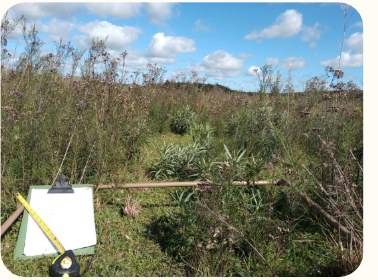
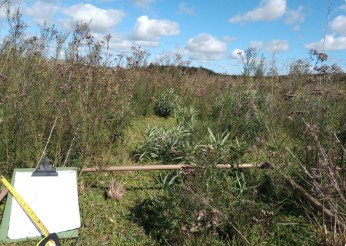
Fix review findings: honest Projetos framing, cleaner photo crops, accessible mobile nav, AA contrast

diff --git a/index.html b/index.html
@@ -35,7 +35,7 @@
   --cream: #fffbf5;
   --cream-2: #f4ece0;
   --text: #2a2420;
-  --text-dim: #7a6c60;
+  --text-dim: #665a4f;
   --border: rgba(115,2,44,0.16);
   --font-display: 'Cormorant Garamond', Georgia, serif;
   --font-body: 'Jost', 'Helvetica Neue', Arial, sans-serif;
@@ -138,14 +138,15 @@ nav.links {
 nav.links a { position: relative; padding: 4px 0; }
 nav.links a:hover { color: var(--wine); }
 
-/* mobile nav via checkbox hack */
-#nav-toggle { display: none; }
+/* mobile nav */
 .hamburger {
   display: none;
   flex-direction: column;
   gap: 5px;
   cursor: pointer;
   padding: 6px;
+  background: none;
+  border: none;
 }
 .hamburger span {
   width: 24px;
@@ -153,6 +154,7 @@ nav.links a:hover { color: var(--wine); }
   background: var(--wine);
   display: block;
 }
+.hamburger:focus-visible { outline: 2px solid var(--wine); outline-offset: 2px; }
 
 @media (max-width: 860px) {
   nav.links {
@@ -165,11 +167,12 @@ nav.links a:hover { color: var(--wine); }
     gap: 0;
     max-height: 0;
     overflow: hidden;
-    transition: max-height 0.25s ease;
+    visibility: hidden;
+    transition: max-height 0.25s ease, visibility 0s linear 0.25s;
     border-bottom: 1px solid var(--border);
   }
   nav.links a { padding: 14px 24px; border-top: 1px solid var(--border); }
-  #nav-toggle:checked ~ nav.links { max-height: 420px; }
+  nav.links.open { max-height: 420px; visibility: visible; transition: max-height 0.25s ease; }
   .hamburger { display: flex; }
 }
 
@@ -270,7 +273,7 @@ nav.links a:hover { color: var(--wine); }
 }
 @media (max-width: 520px) {
   .team-card { flex-direction: column; }
-  .team-card img { width: 100%; height: 220px; }
+  .team-card img { width: 100%; max-width: 220px; height: auto; aspect-ratio: 3/4; margin: 0 auto; }
 }
 
 /* Serviços */
@@ -391,11 +394,10 @@ footer .foot-logo img { height: 28px; width: auto; }
         <span class="tagline">Projetos e Pesquisas Ambientais</span>
       </span>
     </a>
-    <input type="checkbox" id="nav-toggle"/>
-    <label for="nav-toggle" class="hamburger" aria-label="Abrir menu">
+    <button type="button" class="hamburger" id="nav-toggle" aria-label="Abrir menu" aria-expanded="false" aria-controls="nav-links">
       <span></span><span></span><span></span>
-    </label>
-    <nav class="links">
+    </button>
+    <nav class="links" id="nav-links">
       <a href="#sobre">Sobre</a>
       <a href="#equipe">Equipe</a>
       <a href="#servicos">Serviços</a>
@@ -405,6 +407,23 @@ footer .foot-logo img { height: 28px; width: auto; }
     </nav>
   </div>
 </header>
+<script>
+(function () {
+  var toggle = document.getElementById('nav-toggle');
+  var nav = document.getElementById('nav-links');
+  function closeNav() {
+    nav.classList.remove('open');
+    toggle.setAttribute('aria-expanded', 'false');
+  }
+  toggle.addEventListener('click', function () {
+    var open = nav.classList.toggle('open');
+    toggle.setAttribute('aria-expanded', open ? 'true' : 'false');
+  });
+  nav.querySelectorAll('a').forEach(function (link) {
+    link.addEventListener('click', closeNav);
+  });
+})();
+</script>
 
 <main id="top">
   <section class="hero">
@@ -510,7 +529,7 @@ footer .foot-logo img { height: 28px; width: auto; }
     <div class="container">
       <div class="section-head">
         <p class="eyebrow">Projetos</p>
-        <h2>Alguns dos trabalhos que já desenvolvemos</h2>
+        <h2>Tipos de projeto que realizamos</h2>
       </div>
       <div class="case-grid">
         <!-- PLACEHOLDER: replace with a real case from Camila/Mariana (client/project type, what was done, outcome) -->
